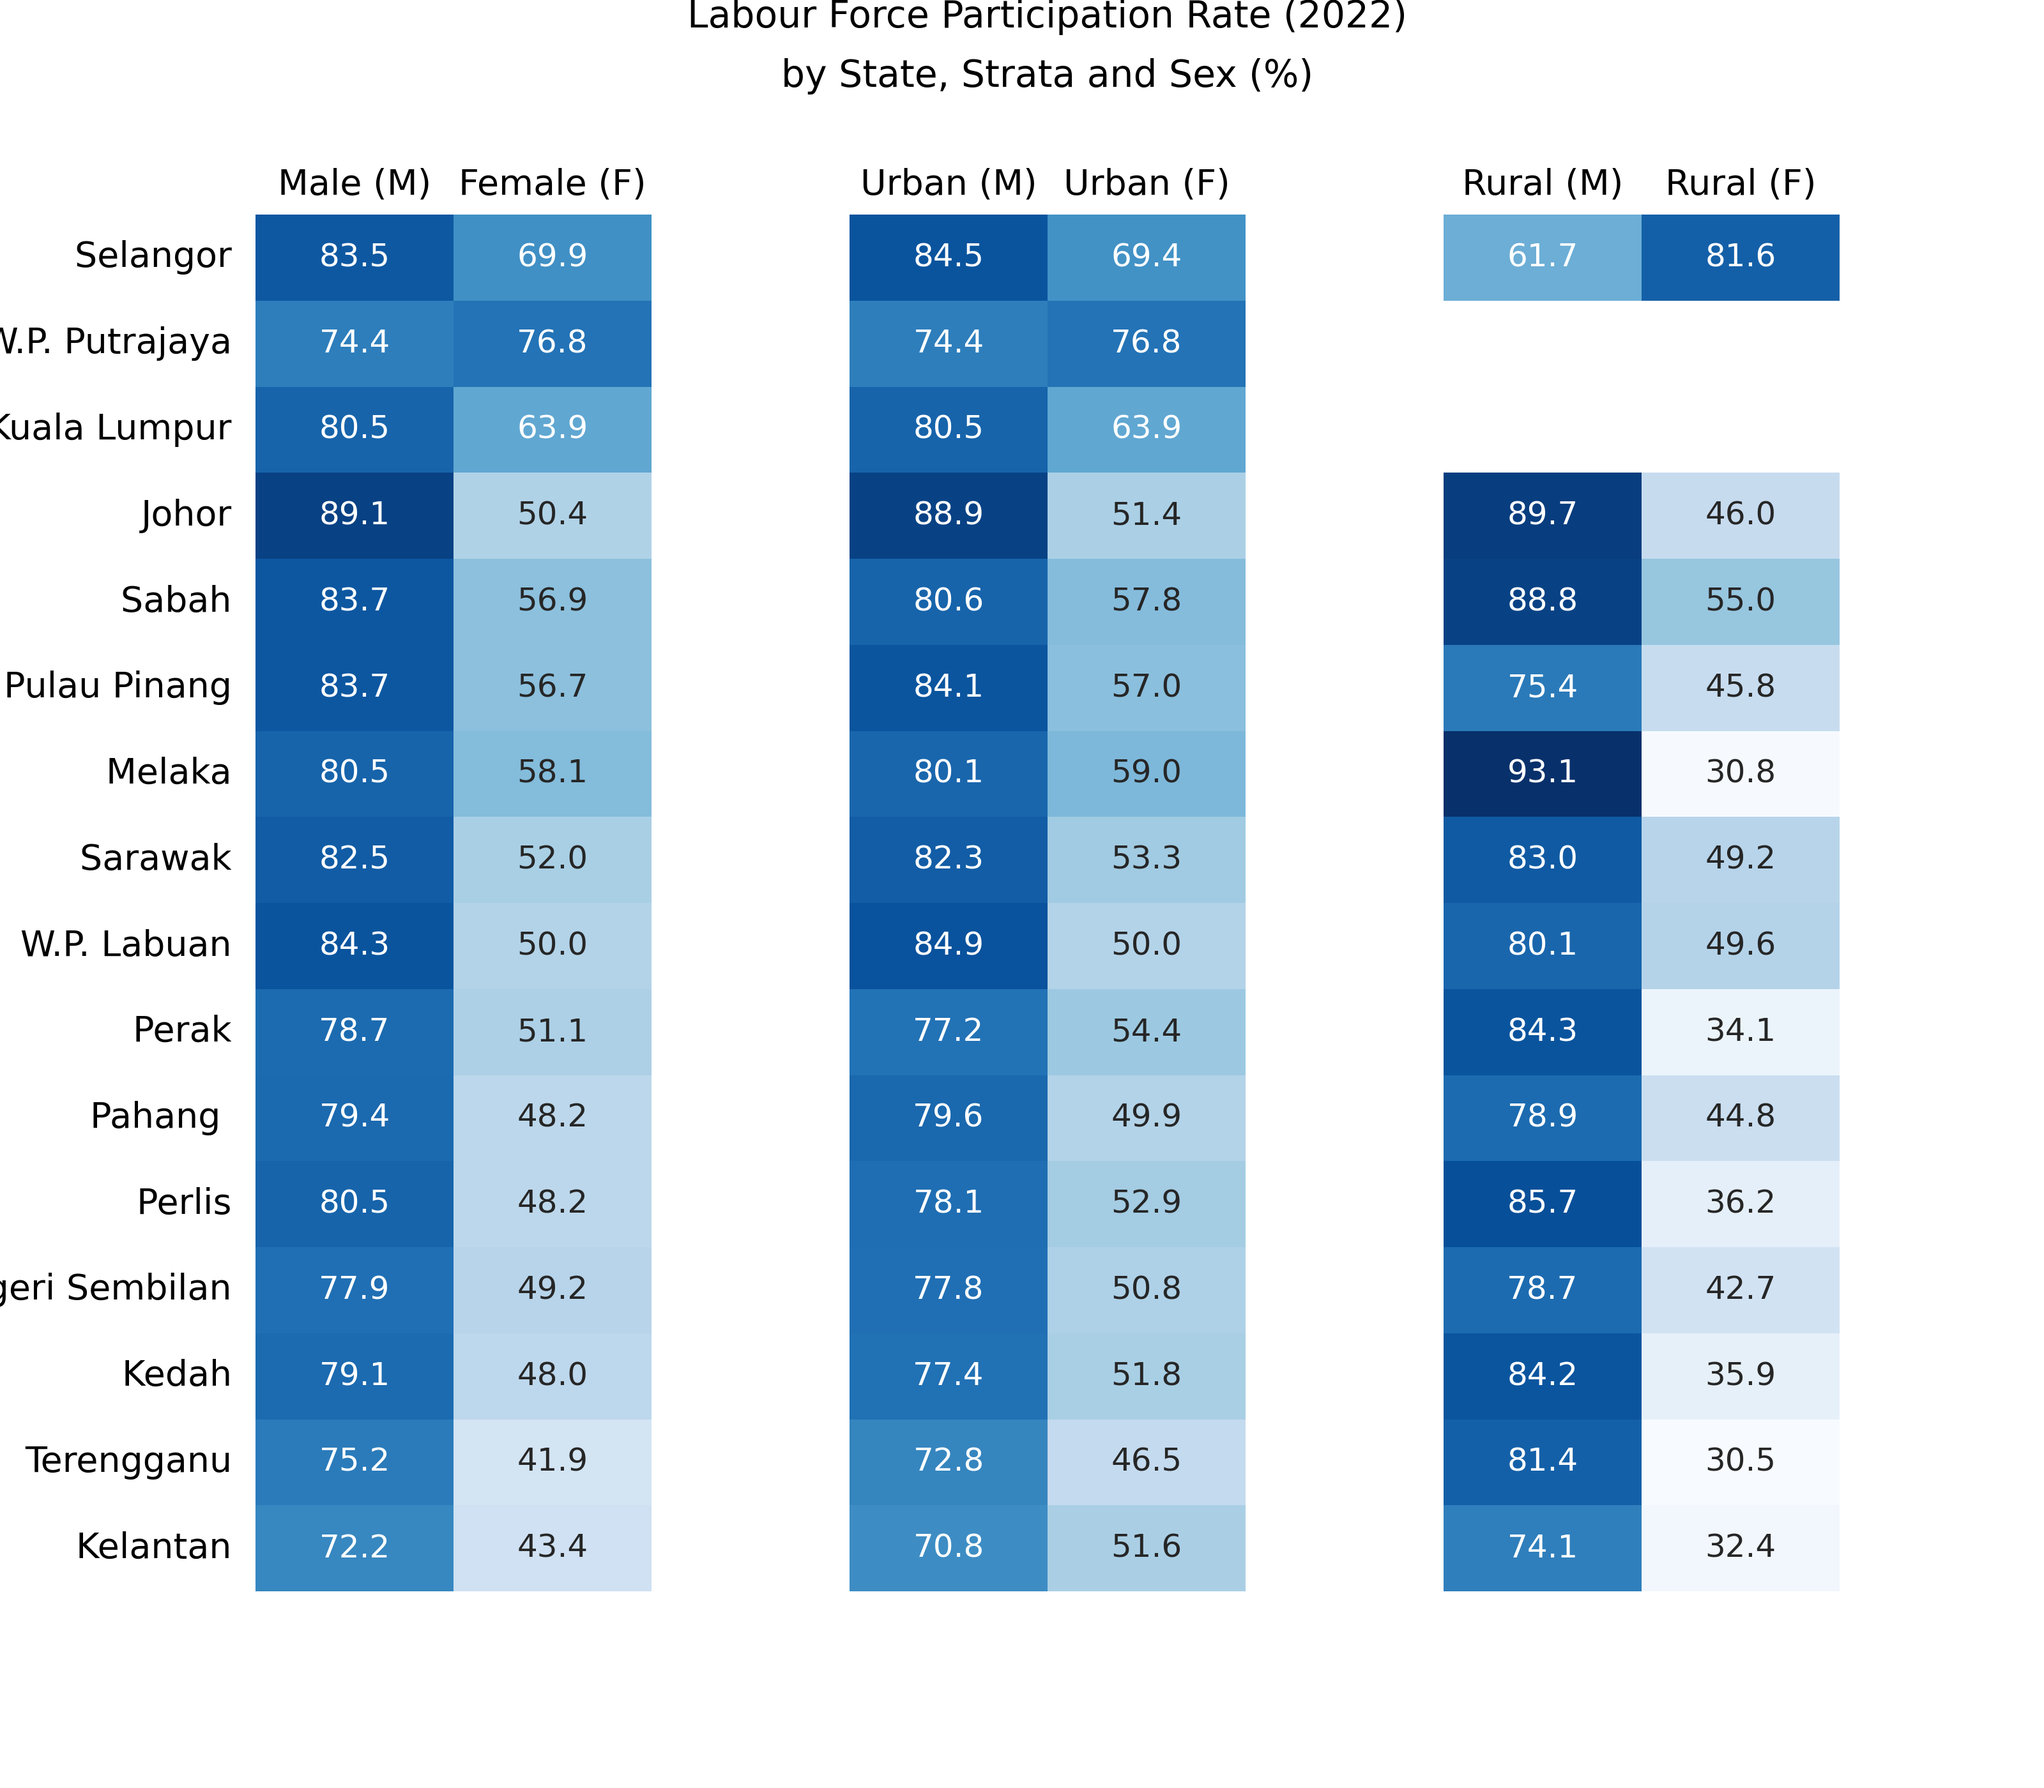
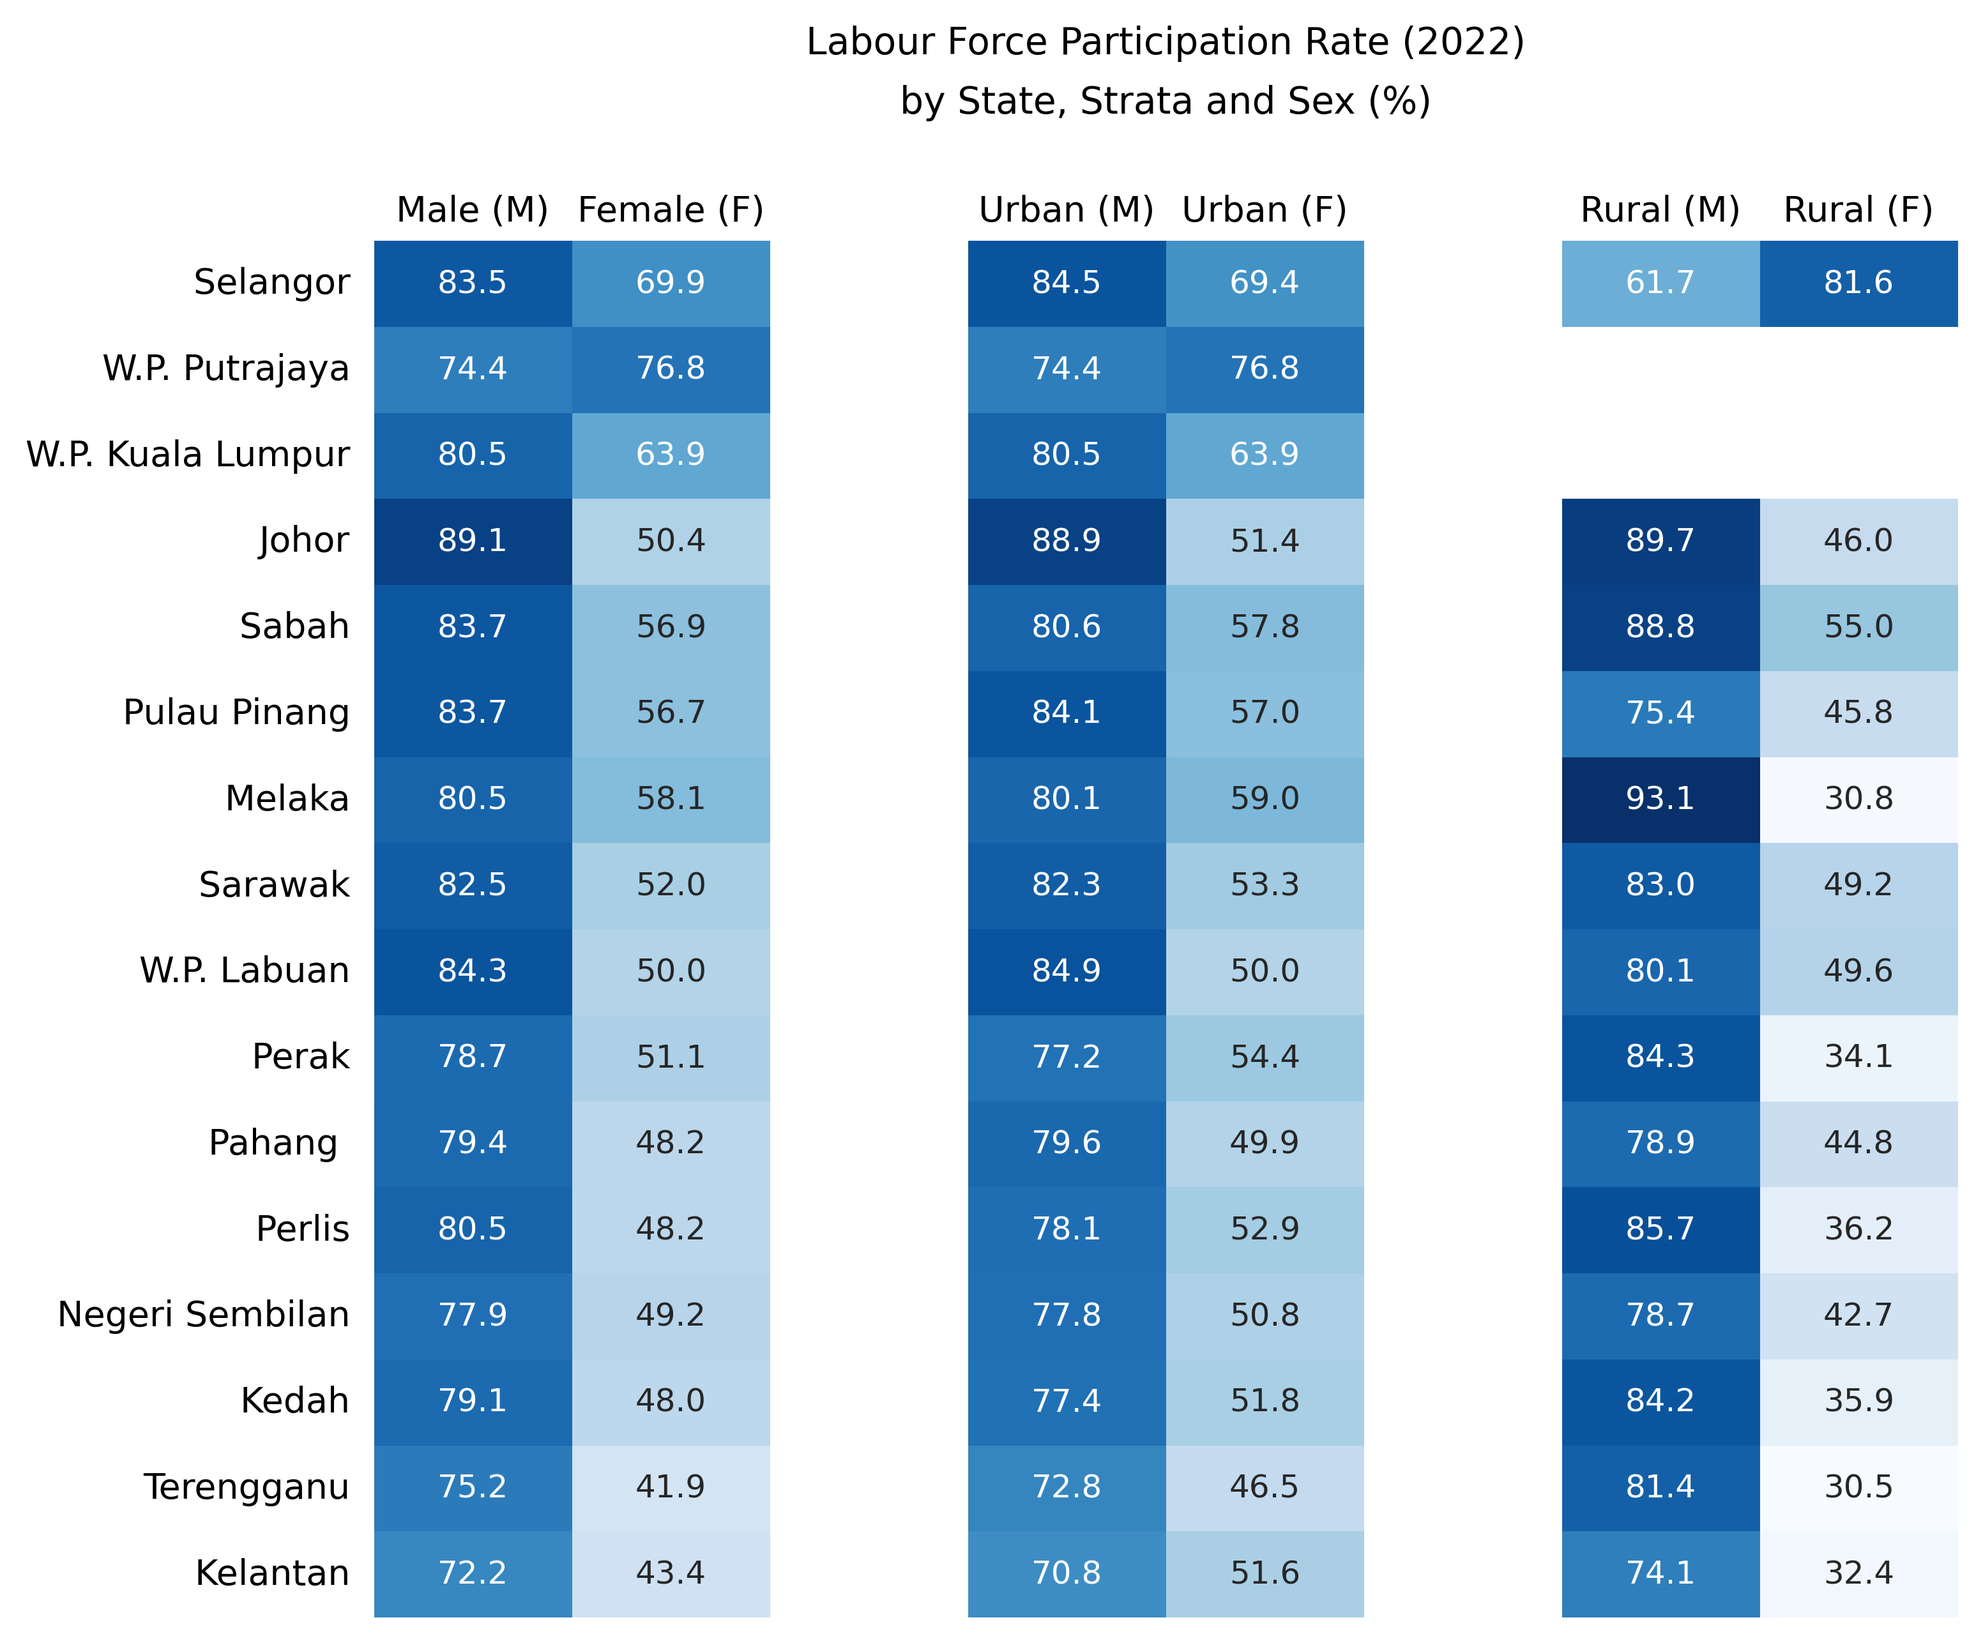
Tighten layout

diff --git a/2024-03-22_lfpr/script.py b/2024-03-22_lfpr/script.py
@@ -49,7 +49,7 @@ def heatmap():
         print(ax.get_title())
         for i in range(len(df)): print(f'{df.index[i]}: {df["Male (M)"].iloc[i]:.1f}% for male, {df["Female (F)"].iloc[i]:.1f}% for female')
         
-    plt.savefig(f'heatmap.png',dpi=400)
+    plt.savefig(f'heatmap.png',dpi=400, bbox_inches = 'tight')
     plt.close()
 
 
